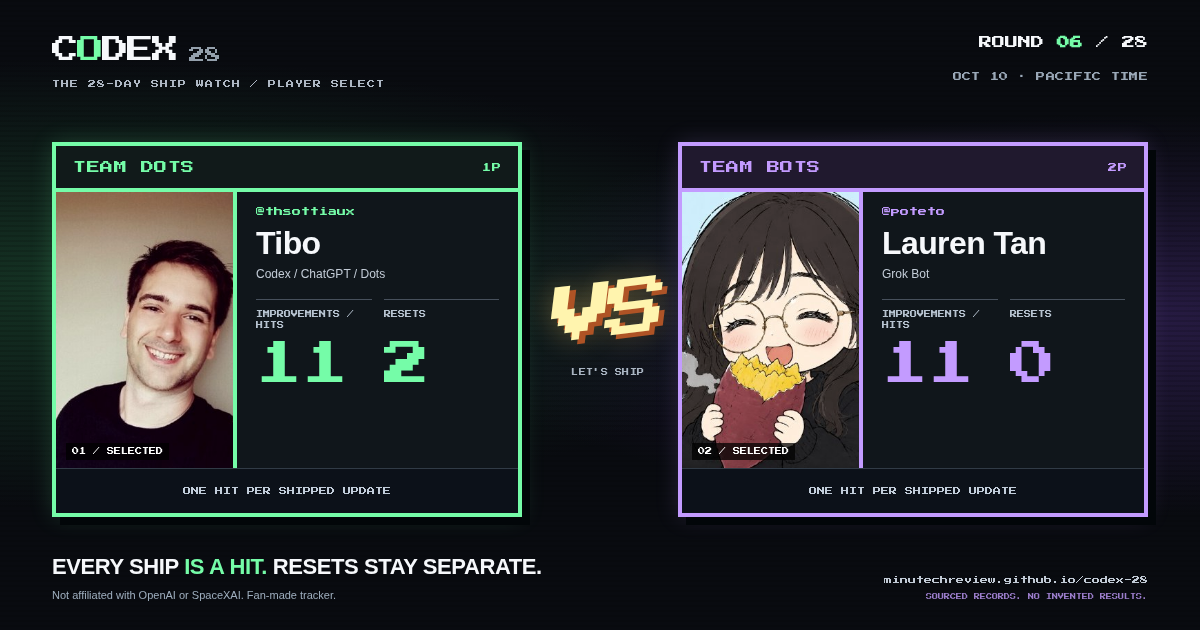
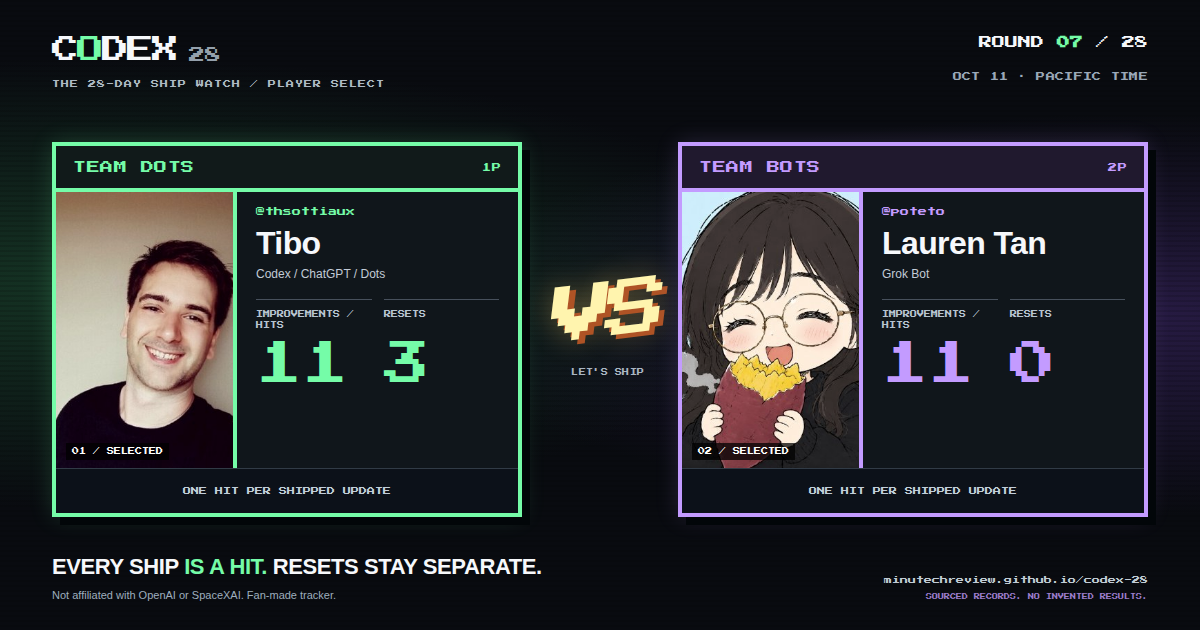
Codex 28 Day 6: usage reset (global reset propagated by end of day)
Record Tibo's Day 6 global usage reset in data.json and as versus.json item 6.1. Team Bots Day 6 entries are unchanged. Resets stay off the hit total.

diff --git a/index.html b/index.html
@@ -3,7 +3,7 @@
 <head>
 <meta charset="utf-8"><meta name="viewport" content="width=device-width, initial-scale=1"><meta name="theme-color" content="#090b10">
 <meta name="description" content="Team Dots versus Team Bots. A 28-round fan tracker of sourced improvements and resets.">
-<meta property="og:title" content="CODEX 28 — TEAM DOTS VS TEAM BOTS"><meta property="og:description" content="Team Dots: 11 confirmed hits, 2 resets, 23 pending days. Team Bots: 11 confirmed hits, 0 resets, 0 pending days."><meta property="og:type" content="website"><meta property="og:url" content="https://minutechreview.github.io/codex-28/"><meta property="og:image" content="https://minutechreview.github.io/codex-28/assets/versus-share.png"><meta property="og:image:width" content="1200"><meta property="og:image:height" content="630"><meta property="og:image:alt" content="Original arcade VERSUS card with portraits of Tibo and Lauren Tan. Team Dots: 11 confirmed hits, 2 resets, 23 pending days. Team Bots: 11 confirmed hits, 0 resets, 0 pending days."><meta name="twitter:card" content="summary_large_image">
+<meta property="og:title" content="CODEX 28 — TEAM DOTS VS TEAM BOTS"><meta property="og:description" content="Team Dots: 11 confirmed hits, 3 resets, 22 pending days. Team Bots: 11 confirmed hits, 0 resets, 0 pending days."><meta property="og:type" content="website"><meta property="og:url" content="https://minutechreview.github.io/codex-28/"><meta property="og:image" content="https://minutechreview.github.io/codex-28/assets/versus-share.png"><meta property="og:image:width" content="1200"><meta property="og:image:height" content="630"><meta property="og:image:alt" content="Original arcade VERSUS card with portraits of Tibo and Lauren Tan. Team Dots: 11 confirmed hits, 3 resets, 22 pending days. Team Bots: 11 confirmed hits, 0 resets, 0 pending days."><meta name="twitter:card" content="summary_large_image">
 <title>CODEX 28 — DOTS VS BOTS</title><link rel="icon" href="./assets/versus-favicon.svg" type="image/svg+xml"><link rel="stylesheet" href="./versus.css"><script type="module" src="./versus-app.js"></script>
 </head>
 <body>

diff --git a/README.md b/README.md
@@ -32,7 +32,7 @@ Static social crawlers cannot execute the runtime JSON fetch. Regenerate the sha
 
 `data.json` holds Tibo day records (unchanged; the live Worker validates it strictly); `versus.json` holds the top-level teams plus aligned per-day numbered update lists for both sides: `days[].tibo` (taken from the numbered items already in `data.json`'s summaries) and `days[].grokbot`. The read-only adapter loads both and requires their calendars to match. Both actual files and their strict schemas are preserved; unknown fields are rejected. See [counting rules](docs/versus-rules.md) and [full repository audit](docs/repository-audit.md).
 
-Both sides are counted the same way: **every listed shipped update is one hit**, shown per day from Day 1. Usage resets come from `data.json`'s day status, show on their day as a USAGE RESET card and have their own counter, but never count as hits and never zero out that day's launches. Current totals: **Tibo 11 hits / 2 resets, Grok Bot 11 hits / 0 resets.** Each round goes to the side with more improvements that day; equal counts draw; a day where either side is still pending is UNRESOLVED. A final KO after round 28 uses greater total hits; ties draw. No winner is invented.
+Both sides are counted the same way: **every listed shipped update is one hit**, shown per day from Day 1. Usage resets come from `data.json`'s day status, show on their day as a USAGE RESET card and have their own counter, but never count as hits and never zero out that day's launches. Current totals: **Tibo 11 hits / 3 resets, Grok Bot 11 hits / 0 resets.** Each round goes to the side with more improvements that day; equal counts draw; a day where either side is still pending is UNRESOLVED. A final KO after round 28 uses greater total hits; ties draw. No winner is invented.
 
 The second fighter is **Lauren Tan (@poteto, she/her)**, using `assets/poteto.jpg` on the right. Tibo uses `assets/tibo.jpg` on the left. The October 5–November 1 window is this project's counting convention, not a verified official schedule. The countdown uses America/Los_Angeles and respects the 25-hour final DST day.
 

diff --git a/docs/versus-rules.md b/docs/versus-rules.md
@@ -16,7 +16,7 @@ Rayan's rule: count every shipped update/improvement on both sides, shown per da
 
 Each round goes to the side with **more improvements that day**. Equal counts are a **DRAW** (including two empty lanes on a reported day). If either side's day is still **pending** in `data.json`, or any entry is unclassified, the round is **UNRESOLVED**. Empty lanes show **NO MOVE**.
 
-Current rounds: 1 draw (1–1), 2 Team Dots (4–1), 3 Team Bots (3–2), 4 Team Dots (2–1), 5 Team Bots (3–2), 6 unresolved (Tibo pending; Grok Bot 2). Totals: Tibo 11 hits / 2 resets, Grok Bot 11 hits / 0 resets.
+Current rounds: 1 draw (1–1), 2 Team Dots (4–1), 3 Team Bots (3–2), 4 Team Dots (2–1), 5 Team Bots (3–2), 6 Team Bots (2–0). Totals: Tibo 11 hits / 3 resets, Grok Bot 11 hits / 0 resets.
 
 A window-end **KO** requires the window to have ended and all records to be classified with no pending days. Winner = greater total hits; equal totals = final draw.
 
